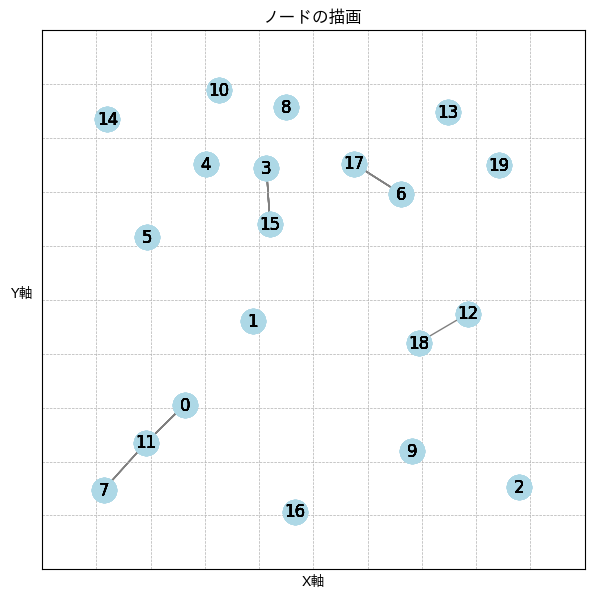
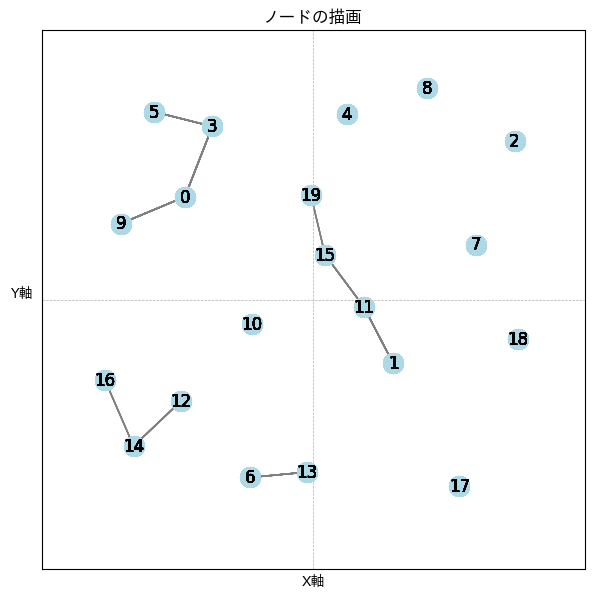
run

diff --git a/Ad_hoc_net.py b/Ad_hoc_net.py
@@ -21,12 +21,12 @@ radius = 10             # ノードを中心とした円の半径(接続半径)
 multiple = 2            # 円の面積の倍数(√n * pi * r^2)
 outputdir_image = "simulation_image" #imageの保存先
 outputdir_gif = "simulation_gif"     #gifの保存先
-plot_pattern = 1
-#0の時は途中経過をgifで表示、1の時は最終結果だけを画像で表示
+plot_pattern = 1    #0の時は途中経過をgifで表示、1の時は最終結果だけを画像で表示
+num_div = 2        #セルの分割数
 
 
 class setting:
-    def __init__(self, plot_pattern, num_nodes, x_range, y_range, node_x_range, node_y_range, min_distance, radius, multiple, outputdir_image, outputdir_gif):
+    def __init__(self, plot_pattern, num_nodes, x_range, y_range, node_x_range, node_y_range, min_distance, radius, multiple, outputdir_image, outputdir_gif, num_div):
         print(f"Initializing Setting...")
         #変数の初期化
         self.num_nodes = num_nodes               # ノード数
@@ -35,12 +35,13 @@ class setting:
         self.positions = {}                      # ノードの位置配列
         self.G = nx.Graph()                      # グラフの生成
         # self.radius = {}                        #各ノードの半径をランダムに決め格納する配列
-        self.radius = radius                        #各ノード半径を格納する配列
+        self.radius = np.sqrt(multiple) * radius                        #各ノード半径を格納する配列
         self.circles = {}                        # 各ノードの円の格納配列
         self.outputdir_image = outputdir_image               # 出力画像の保存先
         self.outputdir_gif = outputdir_gif               # 出力画像の保存先
         self.fig, self.ax = plt.subplots(figsize = (7, 7))
         self.plot_pattern = plot_pattern
+        self.num_div = num_div
         
         #ノードの配置
         for i in range(self.num_nodes):
@@ -124,7 +125,7 @@ class setting:
             if node_id != parent_node:  # 自分自身は除く
                 child_pos = np.array(pos)
                 distance = np.linalg.norm(parent_pos - child_pos)
-                if distance <= self.radius[node_id]:
+                if distance <= self.radius:
                     children_in_radius.append((node_id, distance))
         
         # 距離でソートし、ノード ID だけのリストに変換
@@ -153,10 +154,11 @@ class setting:
 
     #グラフの描画
     def draw_graph(self):
+        div_steps = self.x_range[1]/self.num_div
         self.ax.set_xlim(self.x_range)
         self.ax.set_ylim(self.y_range)
-        self.ax.set_xticks(np.arange(0, 101, step=10))
-        self.ax.set_yticks(np.arange(0, 101, step=10))
+        self.ax.set_xticks(np.arange(self.x_range[0], self.x_range[1], step=div_steps))
+        self.ax.set_yticks(np.arange(self.y_range[0], self.y_range[1], step=div_steps))
         self.ax.grid(True, linestyle='--', linewidth=0.5, zorder=0)  # 罫線を表示
         self.ax.set_xlabel("X軸")
         self.ax.set_ylabel("Y軸", labelpad=15, rotation="horizontal")
@@ -164,8 +166,9 @@ class setting:
 
     #ノード・エッジ・ラベルの描画
     def draw(self):
+        node_size = 200
         self.draw_graph()
-        nx.draw_networkx_nodes(self.G, pos=self.positions, node_color='lightblue', node_size=300, ax=self.ax)
+        nx.draw_networkx_nodes(self.G, pos=self.positions, node_color='lightblue', node_size=node_size, ax=self.ax)
         nx.draw_networkx_edges(self.G, pos=self.positions, edge_color='gray', ax=self.ax)
         nx.draw_networkx_labels(self.G, pos=self.positions, font_color='black', ax=self.ax)
 
@@ -237,8 +240,8 @@ class setting:
 
 
 class AODV(setting):
-    def __init__(self, plot_pattern, num_nodes, x_range, y_range, node_x_range, node_y_range, min_distance, radius, multiple, outputdir_image, outputdir_gif):
-        super().__init__(plot_pattern, num_nodes, x_range, y_range, node_x_range, node_y_range, min_distance, radius, multiple, outputdir_image, outputdir_gif)
+    def __init__(self, plot_pattern, num_nodes, x_range, y_range, node_x_range, node_y_range, min_distance, radius, multiple, outputdir_image, outputdir_gif, num_div):
+        super().__init__(plot_pattern, num_nodes, x_range, y_range, node_x_range, node_y_range, min_distance, radius, multiple, outputdir_image, outputdir_gif, num_div)
         print(f"Initializing AODV...")
         self.current = 0  #通信要求出すノード
         self.target_node = np.random.choice(list(self.positions.keys()))  # 捜索対象
@@ -289,5 +292,6 @@ if __name__ == "__main__":
                  radius, 
                  multiple, 
                  outputdir_image, 
-                 outputdir_gif)
+                 outputdir_gif,
+                 num_div)
     basic.show_aodv()
